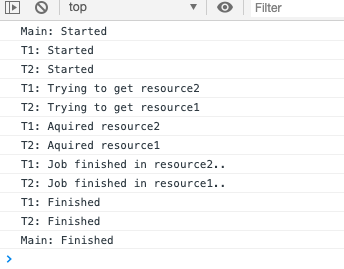
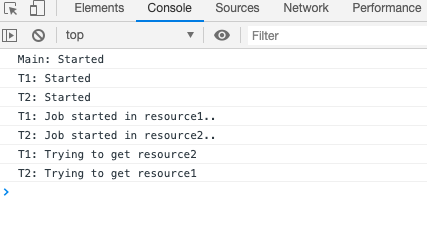
Replace images

diff --git a/README.md b/README.md
@@ -49,9 +49,11 @@ To see threads and deadlock you have to set "experimental WebAssembly threads" i
 https://developers.google.com/web/updates/images/2018/10/WasmThreads3.png
 Chrome restart is required.
 
-Open Chrome Dev-tools1 and select Console to see debug output
+Open Chrome Dev-tools and select Console to see debug output
 Open test page here:
 https://il55.github.io/deadlock/test.html
+
+![Locked-Console-Log](/images/locked.png)
 
 ## I don't want to see that evil deadlock in my browser
 Sorry. Tab is locked. There is no unlock button:-)
@@ -61,10 +63,14 @@ But you can close tab.
 try to see it without lock, open Chrome console and see results
 https://il55.github.io/deadlock/withoutlock/test.html
 
+![Console-Log](/images/withoutlock.png)
+
 ## But does it real deadlock
 Where threads are locked? Maybe we observe just old good webworkers and nothing really locked here?
-Yes and no. As described here:
+Yes and no. More info in next link.
 https://developers.google.com/web/updates/2018/10/wasm-threads#threads_what_about_workers
+
+Just add some statements here:
 "Web Workers do not share mutable data between them"
 But "WebAssembly threads, on the other hand, are threads that can share the same Wasm memory."
 ...
@@ -75,6 +81,7 @@ So if we responsible for that, let's deadlock it, as normal app do. https://alls
 
 
 ## Build from source and try locally
+install Emscripten https://emscripten.org
 
 compile
 `emcc -O2 -s USE_PTHREADS=1 -s PTHREAD_POOL_SIZE=3 -o test.js test.c`
@@ -83,4 +90,5 @@ start test server
 `emrun --no_browser --port 8080 test.html`
 
 open browser
-localhost:8080
+`localhost:8080`
+select test.html
